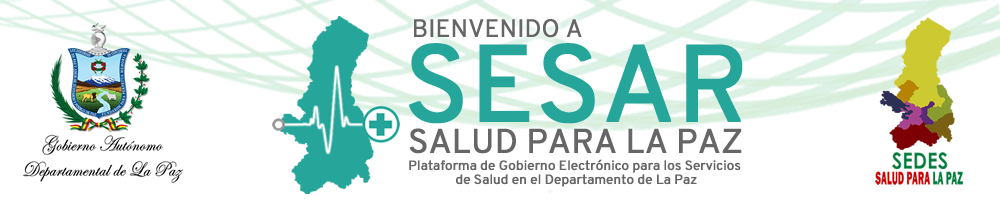
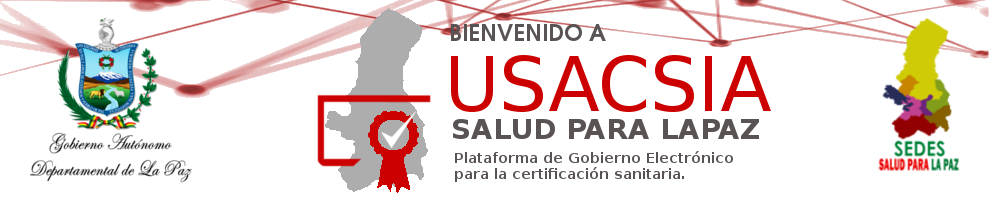
arreglos inicio y banner_inicio

diff --git a/templates/publico/index.html b/templates/publico/index.html
@@ -1,105 +1,95 @@
-<div ng-include="'./templates/publico/menu_inicio_publico.html'"></div>
-<div class="bg-textura">
-	<div class="row">
-		<div class="col-md-10">
-			<img src="./images/banner_inicio.png" class="img-responsive">
-		</div>
-		<!-- <div class="col-md-5" style="padding-left:0;">
-			<br><br>
-			<div class="text-center">
-				<h3 class="fg-white">Una  nueva forma de hacer las cosas</h3>
-				
+<div class="body_inicio">
+	<div ng-include="'./templates/publico/menu_inicio_publico.html'"></div>
+	<div class="bg-textura">
+		<div class="row">
+			<div class="col-md-12 ban_inicio_i">
+				<img src="./images/banner_inicio.png" class="img-responsive ban_inicio_i">
 			</div>
-			<br><br>
-		</div> -->
-	</div>
-
-	<div class="row">
-		<div class="col-md-3 col-sm-6">
-			<div class="panel panel-index">
-				<div class="panel-heading" align="center">
-					<h4><strong><span class="glyphicon glyphicon-credit-card"></span> &nbsp;Carné Sanitario</strong></h4>
-				</div>
-				<div class="panel-body">
-					  El trámite del carné sanitario, ahora más rápido, en unos sencillos pasos:
-					<ul>
-						<li>Realizar el pago de Bs. 25 en caja de USACSIA.</li>
-						<li>Realizar la consulta médica.</li>
-						<li>Entregar una muestra de heces fecales.</li>
-					</ul>
-				</div>
-				<center >
-					<a href="#/persona/create" class="btn btn-primary">
+		</div>
+		<div class="row">
+			<div class="col-md-3 col-sm-6">
+				<div class="panel panel-index">
+					<div class="panel-heading" align="center">
+						<h4><strong><span class="glyphicon glyphicon-credit-card"></span> &nbsp;Carné Sanitario</strong></h4>
+					</div>
+					<div class="panel-body">
+						  El trámite del carné sanitario, ahora más rápido, en unos sencillos pasos:
+						<ul>
+							<li>Realizar el pago de Bs. 25 en caja de USACSIA.</li>
+							<li>Realizar la consulta médica.</li>
+							<li>Entregar una muestra de heces fecales.</li>
+						</ul>
+					</div>
+					<center >
+						<a href="#/persona/create" class="btn btn-primary">
 							<span class="glyphicon glyphicon-pencil"></span>&nbsp; REGISTRARSE
-					</a>
-
-				</center>
+						</a>
+					</center>
+				</div>
 			</div>
-		</div>
-		<div class="col-md-3 col-sm-6">
-			<div class="panel panel-index">
-				<div class="panel-heading" align="center">
-					<h4><strong><span class="glyphicon glyphicon-qrcode"></span> &nbsp;Certificado Sanitario</strong></h4>
-				</div>
-				<div class="panel-body">
-					  El trámite del certificado sanitario, a tu alcance:
-					<ul>
-						<li>Registre su establecimiento.</li>
-						<li>Realizar el pago de Bs. 10 en caja de USACSIA.</li>
-						<li>Cargar los reqisitos a la aplicación.</li>
-						<li>Realizar el pago del arancel designado.</li>
-					</ul>
-				</div>
-				<center >
-					<a href="#/persona/create" class="btn btn-primary">
-							<span class="glyphicon glyphicon-play"></span>&nbsp; INICIAR TRÁMITE
-					</a>
+			<div class="col-md-3 col-sm-6">
+				<div class="panel panel-index">
+					<div class="panel-heading" align="center">
+						<h4><strong><span class="glyphicon glyphicon-qrcode"></span> &nbsp;Certificado Sanitario</strong></h4>
+					</div>
+					<div class="panel-body">
+						  El trámite del certificado sanitario, a tu alcance:
+						<ul>
+							<li>Registre su establecimiento.</li>
+							<li>Realizar el pago de Bs. 10 en caja de USACSIA.</li>
+							<li>Cargar los reqisitos a la aplicación.</li>
+							<li>Realizar el pago del arancel designado.</li>
+						</ul>
+					</div>
+					<center >
+						<a href="#/persona/create" class="btn btn-primary">
+								<span class="glyphicon glyphicon-play"></span>&nbsp; INICIAR TRÁMITE
+						</a>
 
-				</center>
+					</center>
+				</div>
 			</div>
-		</div>
+			<div class="col-md-3 col-sm-6">
+				<div class="panel panel-index">
+					<div class="panel-heading" align="center">
+						<h4><strong><span class="glyphicon glyphicon-education"></span> &nbsp;Capacitación</strong></h4>
+					</div>
+					<div class="panel-body">
+						  Aquí podrá encontrar guías de utilidad para usted:
+						<ul>
+							<li>Manejo de alimentos.</li>
+							<li>Condiciones necesarias para la inspección sanitaria.</li>
+							<li>Manuales de usuario.</li>
+						</ul>
+					</div>
+					<center >
+						<a href="#/persona/create" class="btn btn-primary">
+								<span class="glyphicon glyphicon-info-sign"></span>&nbsp; ACCEDER
+						</a>
 
-
-		<div class="col-md-3 col-sm-6">
-			<div class="panel panel-index">
-				<div class="panel-heading" align="center">
-					<h4><strong><span class="glyphicon glyphicon-education"></span> &nbsp;Capacitación</strong></h4>
+					</center>
 				</div>
-				<div class="panel-body">
-					  Aquí podrá encontrar guías de utilidad para usted:
-					<ul>
-						<li>Manejo de alimentos.</li>
-						<li>Condiciones necesarias para la inspección sanitaria.</li>
-						<li>Manuales de usuario.</li>
-					</ul>
-				</div>
-				<center >
-					<a href="#/persona/create" class="btn btn-primary">
-							<span class="glyphicon glyphicon-info-sign"></span>&nbsp; ACCEDER
-					</a>
-
-				</center>
 			</div>
-		</div>
-		<div class="col-md-3 col-sm-6">
-			<div class="panel panel-index">
-				<div class="panel-heading" align="center">
-					<h4><strong><span class="glyphicon glyphicon-search"></span> &nbsp;Seguimiento de trámites</strong></h4>
-				</div>
-				<div class="panel-body">
-					  A traves de este enlace usted podrá realizar el seguimiento de sus tramites.
-					<ul>
-						<li>Ingrese su CI.</li>
-						<li>Ingrese el numero de trámite.</li>
-						<li>Realice el seguimiento de su trámite.</li>
-					</ul>
-				</div>
-				<center >
-					<a href="#/persona/create" class="btn btn-primary">
-							<span class="glyphicon glyphicon-question-sign"></span>&nbsp; CONSULTAR
-					</a>
+			<div class="col-md-3 col-sm-6">
+				<div class="panel panel-index">
+					<div class="panel-heading" align="center">
+						<h4><strong><span class="glyphicon glyphicon-search"></span> &nbsp;Seguimiento de trámites</strong></h4>
+					</div>
+					<div class="panel-body">
+						  A traves de este enlace usted podrá realizar el seguimiento de sus tramites.
+						<ul>
+							<li>Ingrese su CI.</li>
+							<li>Ingrese el numero de trámite.</li>
+							<li>Realice el seguimiento de su trámite.</li>
+						</ul>
+					</div>
+					<center >
+						<a href="#/persona/create" class="btn btn-primary">
+								<span class="glyphicon glyphicon-question-sign"></span>&nbsp; CONSULTAR
+						</a>
 
-				</center>
+					</center>
+				</div>
 			</div>
 		</div>
 	</div>
@@ -114,5 +104,11 @@
 	.panel-index{
 		padding:5px 5px  5px 5px;
 		margin: 50px 25px 25px 25px;
+	}
+	.ban_inicio_i{
+		width: 100%;
+	}
+	.body_inicio{
+		background: #666666 url(./images/bg_textura.png) bottom no-repeat fixed; width: 100%;
 	}
 </style>

diff --git a/templates/menu_inicio_rol.html b/templates/menu_inicio_rol.html
@@ -1,7 +1,7 @@
 <!-- TOP-MENU inicio -->
 <div class="header" ng-controller="MenuCtrl as menu" >
 	<div class="col-md-12" ng-hide="menu.isLoggedIn()">
-		<nav class="navbar navbar-default navbar-fixed-top">
+		<nav class="navbar navbar-inverse navbar-fixed-top">
 		  <div class="container-fluid">
 			<div class="navbar-header">
 			  <button type="button" class="navbar-toggle collapsed" data-toggle="collapse" data-target="#bs-example-navbar-collapse-1" aria-expanded="false">

diff --git a/index.html b/index.html
@@ -39,13 +39,14 @@
 		.thumb-establecimiento{
 			background: transparent url(./images/centro-thumb.png) center no-repeat; width:100%; height:150px;
 		}
-		.bg-textura{
+
+/*		.bg-textura{
 			background: #666666 url(./images/bg_textura.png) bottom no-repeat;
 			background-position: 0em, 100em;
 			padding-top: 10px;
 			padding-left: 10px;
 			padding-right: 10px;
-		}
+		}*/
 		.bg-white{
 			background-color:#ffffff;
 			border-bottom:1px solid #ccc;
